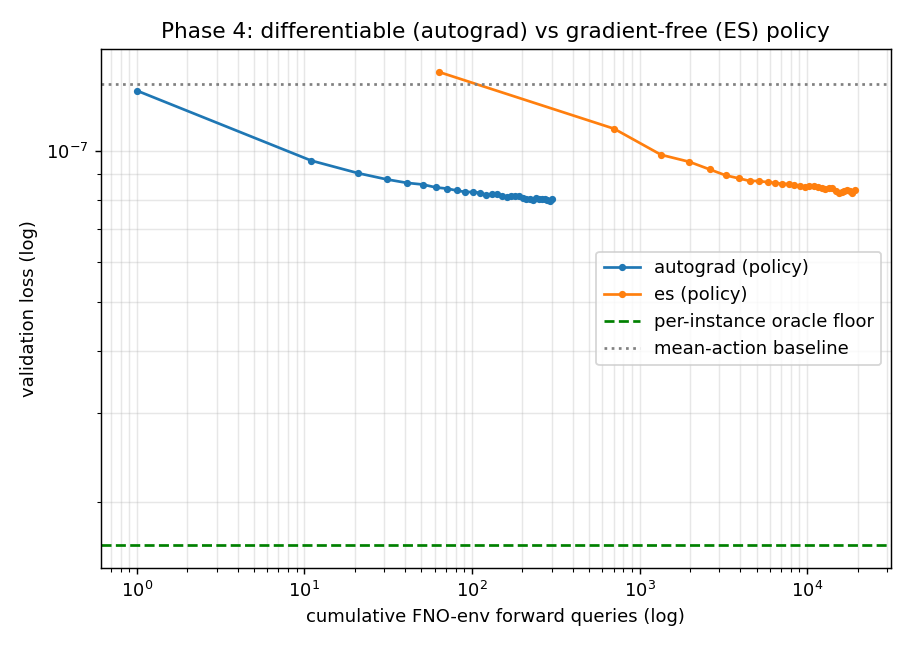
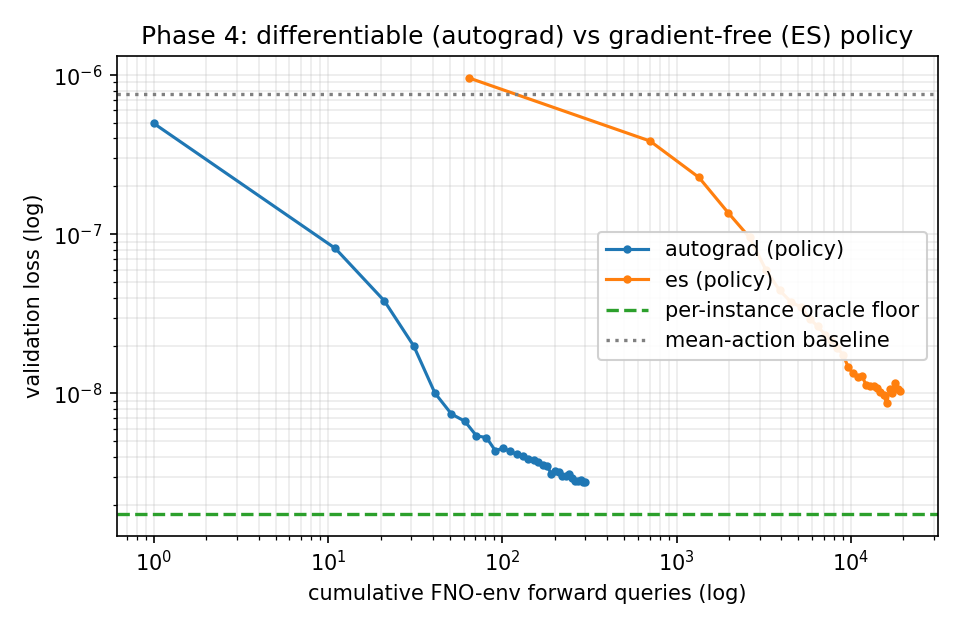
KSE2026: regenerate paper figures on final IPC/GIPC results
The three paper figures predated the final 06-28 IPC dataset and were stale:
- fidelity_speed.png showed FNO~0.079 / MLP~0.066 (MLP looked *more* accurate
  than FNO -- contradicted the thesis) and an "analytic GT solver" label.
- policy_servo_curve.png plateaued ~1 order of magnitude too high vs the IPC
  policy run (autograd 2.77e-9, ES 1.03e-8).
- sensor_gt_vs_fno.png was the old 06-25 render (flow-residual relL2 0.09-0.25)
  while the fresh IPC render (already in runs/phase5/) is relL2 0.02-0.05.

Add src/novbts/report/make_kse_figs.py: reproducible regeneration of
fidelity_speed.png and policy_servo_curve.png straight from benchmark.json /
policy_servo.json (the figures had no generator script before). The sensor
panel is copied from the sensor pipeline's fresh gt_vs_fno_samples.png output.

All three now match the IPC numbers in the text. Build clean, 5 pages.

diff --git a/src/novbts/report/make_kse_figs.py b/src/novbts/report/make_kse_figs.py
@@ -1,0 +1,108 @@
+"""Regenerate the KSE2026 paper figures from the canonical run JSONs.
+
+The paper figures must always reflect the *current* benchmark/policy JSONs (the
+ground truth switched PhysX -> IPC/GIPC, and the figures were previously hand-made
+and went stale). This module is the single reproducible source for them.
+
+Figures written to ``docs/kse2026/figs/``:
+  - fidelity_speed.png      (RQ1/RQ3: rel-L2 vs throughput)   <- runs/phase3_fem/benchmark.json
+  - policy_servo_curve.png  (RQ4: control convergence)        <- runs/phase4/policy_servo.json
+
+The sensor panel (sensor_gt_vs_fno.png) needs the differentiable renderer and is
+produced by the sensor pipeline, not here.
+
+Run:  python -m novbts.report.make_kse_figs
+"""
+import json
+
+import matplotlib
+
+matplotlib.use("Agg")
+import matplotlib.pyplot as plt
+
+from novbts import paths
+
+FIGS = paths.DOCS / "kse2026" / "figs"
+BENCH = paths.RUNS / "phase3_fem" / "benchmark.json"
+POLICY = paths.RUNS / "phase4" / "policy_servo.json"
+
+
+def fig_fidelity_speed() -> None:
+    """RQ1xRQ3: relative-L2 (lower = better) vs inference throughput (log)."""
+    b = json.load(open(BENCH))
+    rl2 = lambda m: b["RQ1"][m]["relative_l2"]["overall"]
+    fps = b["RQ3"]["throughput_fps"]
+    # (name, fps, rel-L2, colour, label offset in points, ha)
+    pts = [
+        ("MLP", fps["mlp"], rl2("mlp"), "tab:blue", (-10, 6), "right"),
+        ("FNO", fps["fno"], rl2("fno"), "tab:orange", (10, -14), "left"),
+        ("FNO+slip(a)", fps["fno_mt_a"], rl2("fno_mt_a"), "tab:green", (10, 8), "left"),
+    ]
+    solver_fps = fps["physx_fem_shear_solver"]
+
+    fig, ax = plt.subplots(figsize=(6.4, 4.0))
+    for name, x, y, c, off, ha in pts:
+        ax.scatter([x], [y], s=130, color=c, zorder=3)
+        ax.annotate(name, (x, y), textcoords="offset points", xytext=off,
+                    fontsize=11, ha=ha)
+    ax.axvline(solver_fps, ls="--", color="0.55", lw=1.4)
+    ax.text(solver_fps * 1.4, ax.get_ylim()[1] * 0.5,
+            f"IPC/GIPC FEM solver\n(~{solver_fps:.2f} fps)",
+            rotation=90, va="center", ha="left", color="0.4", fontsize=9)
+
+    ax.set_xscale("log")
+    ax.set_xlabel("throughput (frames/s, log)")
+    ax.set_ylabel("relative L2 (lower = more accurate)")
+    ax.set_title("Fidelity vs. speed (IPC/GIPC ground truth)")
+    ax.set_ylim(-0.02, max(p[2] for p in pts) * 1.18)
+    ax.set_xlim(solver_fps * 0.4, fps["mlp"] * 3.0)
+    ax.grid(True, which="both", alpha=0.25)
+    fig.tight_layout()
+    out = FIGS / "fidelity_speed.png"
+    fig.savefig(out, dpi=150)
+    plt.close(fig)
+    print(f"wrote {out}  (FNO {rl2('fno'):.3f} @ {fps['fno']:.0f} fps, "
+          f"MLP {rl2('mlp'):.3f}, solver {solver_fps:.3f} fps)")
+
+
+def fig_policy_servo() -> None:
+    """RQ4: validation loss vs cumulative forward queries (both log)."""
+    p = json.load(open(POLICY))
+    ag = p["autograd"]["curve_mean"]
+    es = p["es"]["curve_mean"]
+    floor = p["references"]["per_instance_floor"]
+    baseline = p["references"]["mean_action_baseline"]
+
+    fig, ax = plt.subplots(figsize=(6.4, 4.2))
+    ax.plot([q for q, _ in ag], [v for _, v in ag], "-o", ms=3,
+            color="tab:blue", label="autograd (policy)")
+    ax.plot([q for q, _ in es], [v for _, v in es], "-o", ms=3,
+            color="tab:orange", label="es (policy)")
+    ax.axhline(floor, ls="--", color="tab:green", lw=1.6,
+               label="per-instance oracle floor")
+    ax.axhline(baseline, ls=":", color="0.5", lw=1.6,
+               label="mean-action baseline")
+
+    ax.set_xscale("log")
+    ax.set_yscale("log")
+    ax.set_xlabel("cumulative FNO-env forward queries (log)")
+    ax.set_ylabel("validation loss (log)")
+    ax.set_title("Phase 4: differentiable (autograd) vs gradient-free (ES) policy")
+    ax.legend(loc="center right", framealpha=0.9)
+    ax.grid(True, which="both", alpha=0.25)
+    fig.tight_layout()
+    out = FIGS / "policy_servo_curve.png"
+    fig.savefig(out, dpi=150)
+    plt.close(fig)
+    print(f"wrote {out}  (autograd final {ag[-1][1]:.2e}, es final {es[-1][1]:.2e}, "
+          f"floor {floor:.2e})")
+
+
+def main() -> None:
+    paths.ensure(FIGS)
+    fig_fidelity_speed()
+    fig_policy_servo()
+
+
+if __name__ == "__main__":
+    main()